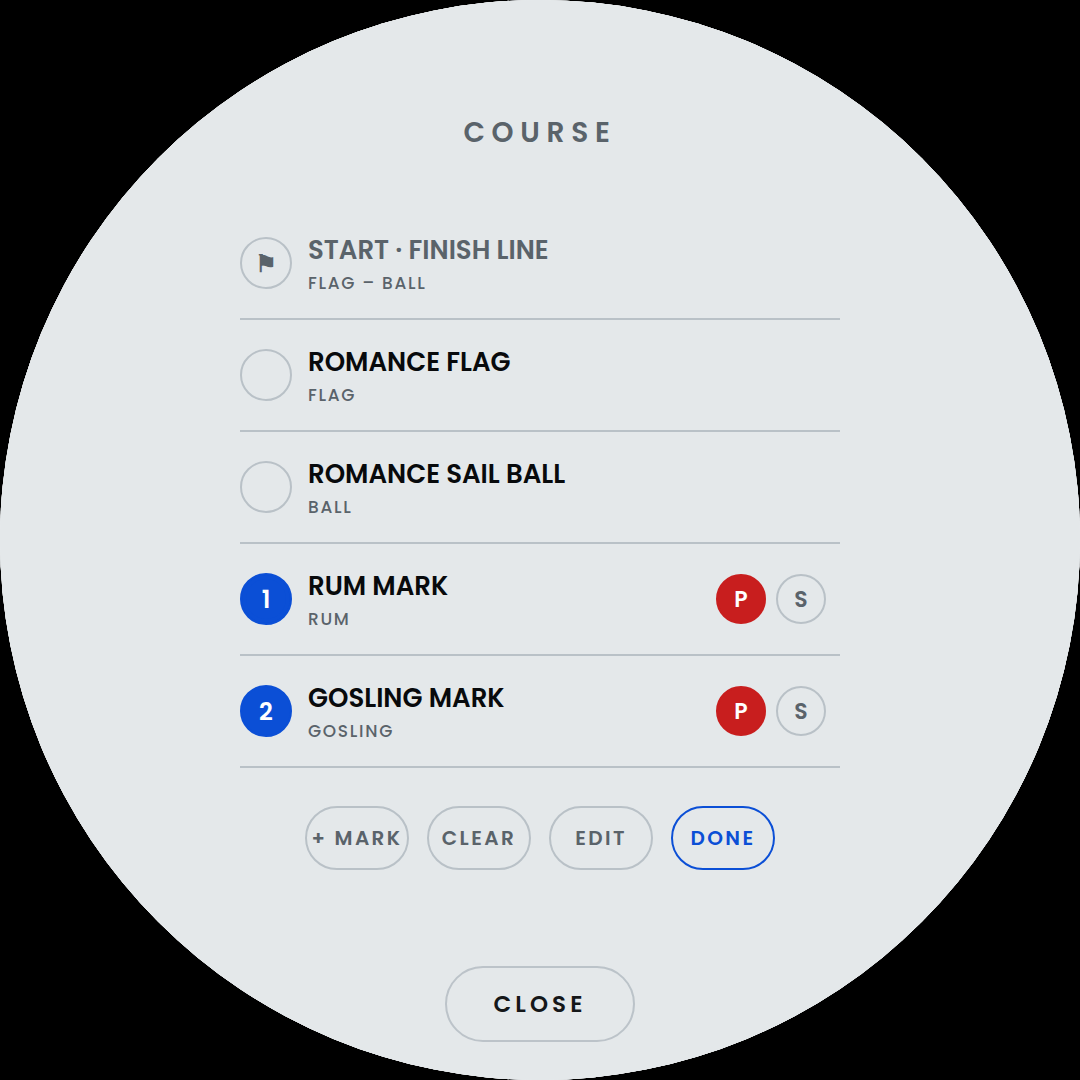
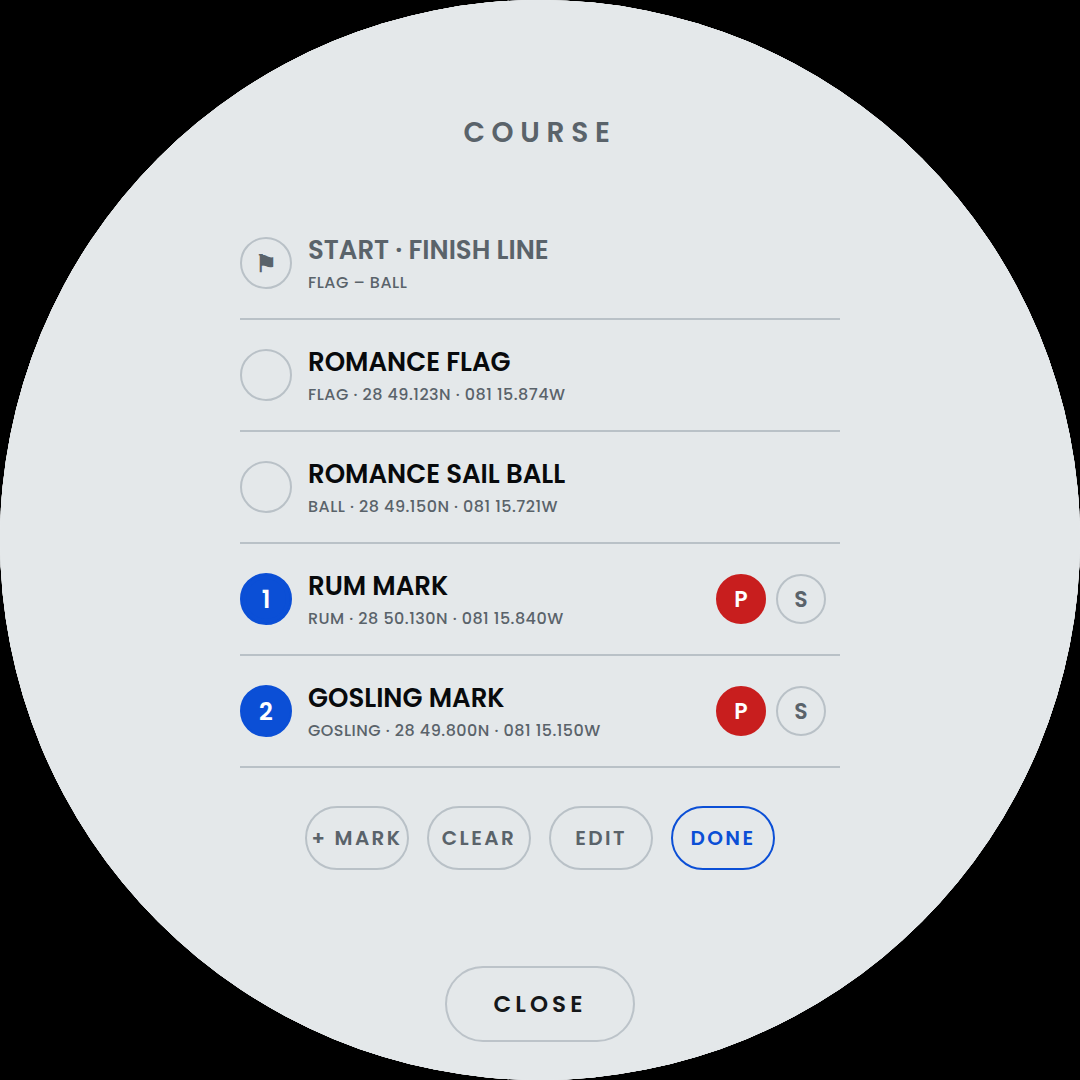
A mark's position can be read back, and one of your own corrected
You could not find out where a mark was. The course sheet showed a name
and a short name; the form opened empty every time and saved a new mark
every time. So a position went in once, by hand, and after that it was
write-only - a longitude typed wrong could only be deleted and entered
again, and a mark of your own added months ago was a name over a number
nobody could see.

Two halves.

Every row now carries its position under the name, as a chart writes it
- CB 12 · 28 49.284N · 081 16.508W. The hemisphere is a letter and the
degrees are padded, because nothing on a list read at arm's length
should turn on spotting a minus sign at 16 px. fmtDM keeps the minus:
that one feeds the form, where a minus is what the keyboard has. The
sub-line loses its letter-spacing to make the room, and the test asserts
no row clips.

And a tap in EDIT opens a mark of your own with its name and position
already in the fields, with SAVE writing over it rather than making a
second. EDIT was already the mode for the list rather than the course,
so the tap was free; outside it a tap still adds and removes marks from
the course. The club's marks do not open - they are compiled into the
page and there is nowhere to save them to - and their position is on the
row either way, which is the half of this that everything needs.

USER_MARKS and MARKS hold the same objects, so writing through one is
the whole update, course and map included. A mark deleted from under the
[…]

diff --git a/confluence_helm.html b/confluence_helm.html
@@ -764,7 +764,11 @@ text{font-variant-numeric:tabular-nums;dominant-baseline:middle}
 .course-row.in .seq{background:var(--accent);border-color:var(--accent);color:#fff}
 .course-row.next .seq{box-shadow:0 0 0 4px var(--accent) inset}
 .course-row .lib-main b{display:block;font-size:26px;font-weight:600;color:var(--ink)}
-.course-row .lib-main span{font-size:17px;letter-spacing:.1em;color:var(--label)}
+/* The position rides on this line, so the tracking comes off it: a
+   course sheet that read its own marks back and then clipped them would
+   have been no better than one that never showed them. */
+.course-row .lib-main span{font-size:16px;letter-spacing:.03em;color:var(--label);
+  white-space:nowrap}
 .course-row.line .lib-main b{color:var(--label)}
 /* which side to leave a mark: P red, S green, the way the lights are.
    Only on rows that are in the course. */
@@ -2018,7 +2022,7 @@ document.body.className = THEME_EFF==='day' ? '' : THEME_EFF;
   <!-- The course sheet: the club's marks, tapped into an order. Same
        sheet as the library, same rows. -->
   <div id="t-course">
-    <div class="t-title">Course</div>
+    <div class="t-title" id="course-title">Course</div>
     <div id="course-main">
       <div class="lib-list" id="course-list"></div>
       <div class="course-bar">
@@ -2030,7 +2034,11 @@ document.body.className = THEME_EFF==='day' ? '' : THEME_EFF;
     </div>
     <!-- A mark of your own: a name, and a position typed or taken from
          the GPS. Degrees and decimal minutes as the sailing instructions
-         give them, or decimal degrees; west and south are minus. -->
+         give them, or decimal degrees; west and south are minus.
+         Opened empty by + MARK, and prefilled by a tap on one of your
+         own marks while EDIT is on - a position that could only be
+         written and never read back was a position you had to delete
+         and retype to correct. -->
     <div id="course-add" style="display:none">
       <div class="mk-row"><div class="mk-field on" data-f="name"><span class="mk-lbl">NAME</span><span class="mk-val" id="mk-name"></span><span class="pw-cur"></span></div></div>
       <div class="mk-row">
@@ -7496,7 +7504,8 @@ function renderCourse(){
     const del = courseEdit&&isUserMark(m.id) ? '<div class="del">✕</div>' : '';
     const grip= courseEdit ? '<div class="grip">≡</div>' : '';
     return `<div class="${cls}" data-mark="${m.id}"><div class="seq">${i>=0?i+1:''}</div>
-      <div class="lib-main"><b>${esc(m.name)}</b><span>${esc(m.hdr)}</span></div>${side}${del}${grip}</div>`; };
+      <div class="lib-main"><b>${esc(m.name)}</b>
+      <span>${esc(m.hdr)} · ${posDM(m)}</span></div>${side}${del}${grip}</div>`; };
   box.innerHTML=lineRow+MARKS.map(row).join('');
 }
 function openCourse(){ $('t-course').classList.add('on'); renderCourse(); }
@@ -7513,6 +7522,15 @@ $('course-list').addEventListener('click',e=>{
     courseSave(); renderCourse(); drawMap(shownTrack()); return; }
   if(e.target.closest('.del')){ markDelete(row.dataset.mark); return; }
   if(e.target.closest('.grip')) return;
+  /* EDIT is the mode for changing the LIST rather than the course, so a
+     tap in it opens the mark instead of adding or removing it. Only
+     your own: the club's are compiled in and there is nothing to save
+     them to - their position is on the row either way, which is the
+     half of this that everything needs. */
+  if(courseEdit && !row.dataset.line){
+    if(isUserMark(row.dataset.mark)) mkOpen(row.dataset.mark);
+    return;
+  }
   if(row.dataset.line){ if(lineEnds().pinged){ LINE={}; saveLine();
       ['pin','boat'].forEach(k=>$('ping-'+k).classList.remove('set')); } }
   else{ const id=row.dataset.mark, i=COURSE.marks.indexOf(id);
@@ -7572,6 +7590,14 @@ addEventListener('pointermove',e=>{
 let MK=null;
 const MARK_MAX_NM=100;
 const fmtDM=v=>{ const s=v<0?'-':'', a=Math.abs(v), d=Math.floor(a); return s+d+' '+((a-d)*60).toFixed(3); };
+/* The same number as fmtDM, written the way a chart writes it: the
+   hemisphere as a letter and the degrees padded, because nothing on a
+   list read at arm's length should turn on spotting a minus sign at
+   17 px. fmtDM keeps the minus - it feeds the form, where a minus is
+   what you type. */
+const hemDM=(v,pos,neg,w)=>{ const a=Math.abs(v), d=Math.floor(a);
+  return String(d).padStart(w,'0')+' '+((a-d)*60).toFixed(3)+(v<0?neg:pos); };
+const posDM=m=>hemDM(m.lat,'N','S',2)+' · '+hemDM(m.lon,'E','W',3);
 function parseDM(str){
   /* As a chart writes it - 28°49.03'N, 081°16.17'W - or as a minus:
      a hemisphere letter at either end sets the sign, S and W negative,
@@ -7588,12 +7614,21 @@ function parseDM(str){
   if(parts.length>2) return null;
   return sign*v;
 }
-function mkOpen(){
-  MK={f:'name', name:'', lat:'', lon:'', kb:{shift:false,sym:false,num:false}};
+/* Empty from + MARK, prefilled from a mark of your own. fmtDM rather
+   than posDM: this is the field you type into, and a minus is what the
+   keyboard has. */
+function mkOpen(id){
+  const m=id?markOf(id):null;
+  MK={f:'name', id:m?m.id:null,
+      name:m?m.name:'', lat:m?fmtDM(m.lat):'', lon:m?fmtDM(m.lon):'',
+      kb:{shift:false,sym:false,num:false}};
+  $('course-title').textContent = m ? 'Edit mark' : 'New mark';
   $('course-main').style.display='none'; $('course-add').style.display='';
   $('mk-msg').textContent=''; mkPaint();
 }
-function mkClose(){ MK=null; $('course-add').style.display='none'; $('course-main').style.display=''; renderCourse(); }
+function mkClose(){ MK=null; $('course-add').style.display='none';
+  $('course-title').textContent='Course';
+  $('course-main').style.display=''; renderCourse(); }
 function mkPaint(){
   if(!MK) return;
   $('mk-name').textContent=MK.name; $('mk-lat').textContent=MK.lat; $('mk-lon').textContent=MK.lon;
@@ -7624,6 +7659,16 @@ function mkSave(){
   if(nm>MARK_MAX_NM){ $('mk-msg').textContent=Math.round(nm).toLocaleString()+' NM AWAY · WEST IS MINUS?'; return; }
   let name=MK.name.trim().toUpperCase().replace(/\s+/g,' ');
   if(!name) name='MARK '+(USER_MARKS.length+1);
+  /* Editing one you already had. USER_MARKS and MARKS hold the SAME
+     object - MARKS is built by pushing these in at boot - so writing
+     through it is the whole update, course and map included. Gone from
+     under us (deleted in another sheet) falls through and makes a new
+     one, which is better than losing what you just typed. */
+  if(MK.id){
+    const m=USER_MARKS.find(x=>x.id===MK.id);
+    if(m){ m.name=name; m.hdr=name.slice(0,8).trim(); m.lat=lat; m.lon=lon;
+           marksSave(); mkClose(); drawMap(shownTrack()); return; }
+  }
   const id='u'+Date.now().toString(36);
   const m={id, name, hdr:name.slice(0,8).trim(), lat, lon};
   USER_MARKS.push(m); marksSave(); MARKS.push(m);
@@ -7651,7 +7696,7 @@ $('course-add').addEventListener('click',e=>{
   if(a==='del')  { MK[MK.f]=MK[MK.f].slice(0,-1); return mkPaint(); }
   if(a==='go')   return mkSave();
 });
-$('course-add-btn').addEventListener('click',mkOpen);
+$('course-add-btn').addEventListener('click',()=>mkOpen());
 $('mk-here').addEventListener('click',mkHere);
 $('mk-save').addEventListener('click',mkSave);
 $('mk-cancel').addEventListener('click',mkClose);

diff --git a/docs/readings.md b/docs/readings.md
@@ -391,6 +391,12 @@ the lights are. The side shows on the map by the mark's number and in
 the box as you close on it. With no course set, the only leg is back
 to the line.
 
+**Every row carries its position**, under the name, as a chart writes
+it — `CB 12 · 28 49.284N · 081 16.508W`. The hemisphere is a letter and
+the degrees are padded, because nothing on a list read at arm's length
+should turn on spotting a minus sign at 16 px. The club's marks and
+your own read the same way.
+
 ![Adding a mark of your own](img/course-form.png)
 
 **Marks of your own.** `+ MARK` on the sheet's bar opens a form: a name,
@@ -412,7 +418,18 @@ readings like the club's — and adds it to the course.
 is the numbers, set by tapping. It puts a grip on every row: drag it
 onto another row and the mark takes that place in the list, the club's
 marks included, and the order is kept. A mark of your own gets a ✕ in
-edit mode, which removes it from the course and from storage. `DONE`
+edit mode, which removes it from the course and from storage.
+
+**Tapping a mark of your own in edit mode opens it**, with its name and
+position already in the fields, and `SAVE` writes over it rather than
+making a second one. Outside edit mode a tap still adds and removes
+marks from the course, which is what that tap is for the rest of the
+time. The club's marks do not open: they are compiled into the page and
+there is nowhere to save them to — their position is on the row either
+way, which is the half of this that everything needs.
+
+Before this a position could be written and never read back, so a mark
+typed slightly wrong could only be deleted and entered again. `DONE`
 leaves edit mode. Target speed and the wind
 shift are not in the box: they are readings, picked into any slot like
 the rest.
